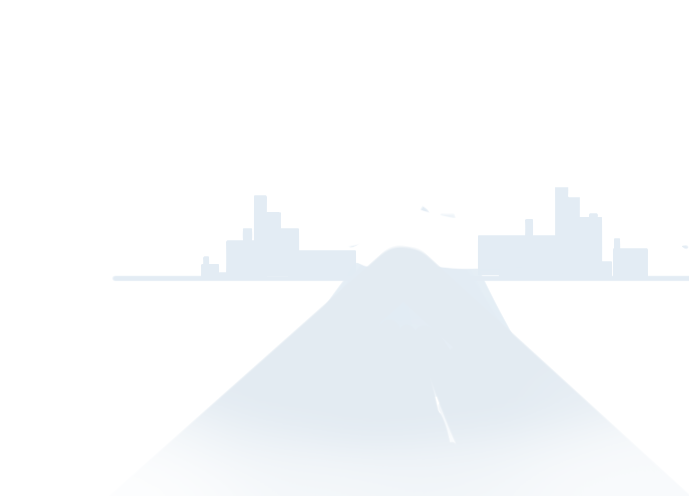
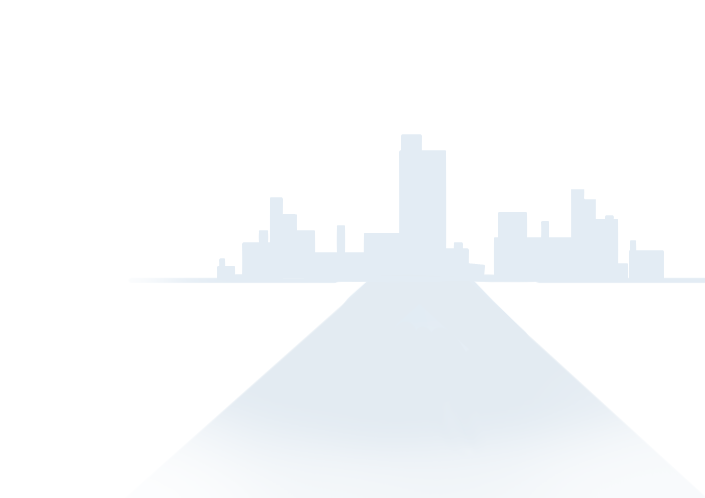
update images

diff --git a/soleil/soleil/Title/TitleGraphics.cs b/soleil/soleil/Title/TitleGraphics.cs
@@ -11,7 +11,7 @@ namespace Soleil.Title
     {
         private static readonly Vector LogoPos = new Vector(140, 70);
         private static readonly Vector ShadowPos = new Vector(416, 295);
-        private static readonly Vector CityPos = new Vector(272, 46);
+        private static readonly Vector CityPos = new Vector(256, 44);
         private static readonly Vector EyeCatchPos = new Vector(388, -39);
         Image back, logo;
         Image eyecatch, shadow, citySilhouette;
@@ -27,7 +27,6 @@ namespace Soleil.Title
             bar2 = new TitleOrnamentBar((new Vector(500, 536.5), new Vector(603.5, 518.2)));
             DepthID eyeCatchDepth = DepthID.Player;
             eyecatch = new Image(TextureID.TitleCharacter, EyeCatchPos, eyeCatchDepth);
-            eyecatch.Size = new Vector(0.2875f);
             shadow = new Image(TextureID.TitleKage, ShadowPos, eyeCatchDepth);
             citySilhouette = new Image(TextureID.TitleSilhouette, CityPos, eyeCatchDepth);
             components = new IComponent[] { back, logo, citySilhouette, shadow, eyecatch, bar1, bar2 };
